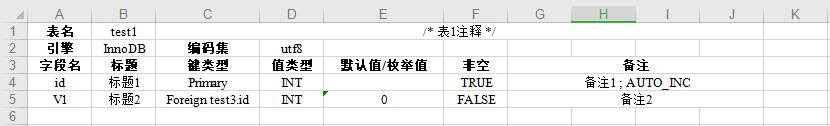
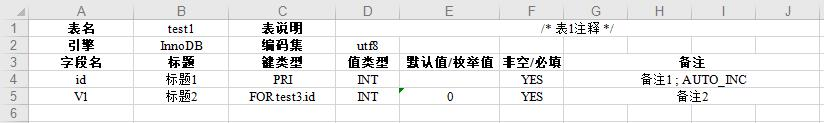
结构化数据、支持从数据库直接导出表结构

diff --git a/src/dbvd.py b/src/dbvd.py
@@ -1,19 +1,21 @@
 import xlwt
 import re
-import os
+from structure import TABLE, COLUMN, DRIVER
 
-class TABLE:
-    def __init__(self, sentence):
-        self.comment, self.table_name, self.columns, self.engine, self.charset = self.parse(sentence)
 
+class ReTableDriver(DRIVER):
     def parse(self, s):
-        comment, table_name, columns, engine, charset = "None", "None", [], "Default", "Default"
+        comment, table_name, columns, engine, charset = "", "None", [], "Default", "Default"
         primary_keys, foreign_keys = [], []
+
+        # 提取表信息
         res = re.search(r'(/\*.*\*/)?\s*CREATE TABLE(?: IF NOT EXISTS)?\s*(\w+)\s*\(.*\)', s, re.I|re.S)
         if res:
             comment, table_name = res.groups()
         engine, charset = self.pick_value(s, ['ENGINE', 'DEFAULT CHARSET'])
         res = re.search(r'(?:/\*.*\*/)?\s*CREATE TABLE(?: IF NOT EXISTS)?\s*\w+\s*\((.*)\)', s, re.I|re.S)
+
+        # 构建列信息
         if res:
             sentences = res.group(1).split('\n')  # Do not use re.split() here!
             for i in sentences: # every sentence only contains no more than 1 blank as devider
@@ -28,21 +30,22 @@ class TABLE:
                     foreign_keys.append(res_for.groups())
                     pass
                 else:
-                    columns.append(COLUMN(i))
+                    columns.append(COLUMN(i, ReCulomnDriver()))
 
         # 构建键约束
         for i in primary_keys:
             for c in columns:
                 if(c.column_name == i[0]):
-                    c.key_constraint = 'Primary'
+                    c.key_constraint = 'PRI'
         for i in foreign_keys:
             for c in columns:
                 if(c.column_name == i[0]):
-                    c.key_constraint = 'Foreign %s.%s' % (i[1], i[2])
+                    c.key_constraint = 'FOR %s.%s' % (i[1], i[2])
 
         return comment, table_name, columns, engine, charset
-    
+        
     def pick_value(self, s, keys):
+        # 按键值对获取信息，如 a=c，将返回c
         values = []
         for k in keys:
             value, res = "Default", re.search(r''+k+' *= *(\w+)', s, re.I)
@@ -52,83 +55,33 @@ class TABLE:
         return tuple(values)
 
 
-    def output(self, xls):
-        bold_title = xlwt.easyxf('font: name Times New Roman, bold on; align:horiz center, vert center')
-        normal_style = xlwt.easyxf('font: name Times New Roman; align:horiz center, vert center')
-        sheet = xls.add_sheet(self.table_name, cell_overwrite_ok=True)
-        sheet.write(0, 0, "表名", bold_title)
-        sheet.write(0, 1, self.table_name, normal_style)
-        sheet.write(0, 2, "表说明", bold_title)
-        sheet.write_merge(0, 0, 2, 9, self.comment, normal_style)
-
-        sheet.write(1, 0, "引擎", bold_title)
-        sheet.write(1, 1, self.engine, normal_style)
-        sheet.write(1, 2, "编码集", bold_title)
-        sheet.write(1, 3, self.charset, normal_style)
-
-        sheet.write(2, 0, "字段名", bold_title)
-        sheet.write(2, 1, "标题", bold_title)
-        sheet.write(2, 2, "键类型", bold_title)
-        sheet.write(2, 3, "值类型", bold_title)
-        sheet.write(2, 4, "默认值/枚举值", bold_title)
-        sheet.write(2, 5, "非空", bold_title)
-        sheet.write_merge(2, 2, 6, 9, "备注", bold_title)
-
-        row = 3
-        for c in self.columns:
-            sheet.write(row, 0, c.column_name, normal_style)
-            sheet.write(row, 1, c.title, normal_style)
-            sheet.write(row, 2, c.key_constraint, normal_style)
-            sheet.write(row, 3, c.key_type, normal_style)
-            sheet.write(row, 4, c.default_value, normal_style)
-            sheet.write(row, 5, c.not_null, normal_style)
-            sheet.write_merge(row, row, 6, 9, c.desc, normal_style)
-            row += 1
-
-    def __str__(self):
-        return "comment=%s, table_name=%s, columns_len=%d, engine=%s, charset=%s" \
-            % (self.comment, self.table_name, len(self.columns), self.engine, self.charset)
-
-class COLUMN:
-    def __init__(self, sentence):
-        self.title, self.column_name, self.key_constraint, \
-         self.key_type, self.default_value, self.not_null, self.desc = self.parse(sentence)
-    
+class ReCulomnDriver(DRIVER):
     def parse(self, s):
-        title, column_name, key_constraint, key_type, default_value, not_null, desc = "/", "/", "", "/", "", True, "/"
+        title, column_name, key_constraint, key_type, default_value, not_null, desc = "/", "/", "", "/", "", "YES", "/"
 
+        # 提取列基本信息
         res = re.search(r'/\*(.*)\*/\s*(\w+) ([\w\(\)]+).*/\*(.*)\*/', s, re.I)
         if res:
             title, column_name, key_type, desc = res.groups()
 
-        # 查询默认值或枚举值
-        # res = re.search(r'DEFAULT (\d|(?:\'.*?\'))', s, re.I)
-        # if res:
-        #     print(res.groups())
-
-        # res = re.search(r'ENUM ?\( ?(.*?) ?\)', s, re.I)
-        # if res:
-        #     print(res.groups())
-
-        # 查询默认值或枚举值
+        # 查询默认值或枚举值 r'DEFAULT (\d|(?:\'.*?\'))' || r'ENUM ?\( ?(.*?) ?\)'
         res = re.search(r'DEFAULT (\d|(?:\'.*?\'))|ENUM ?\( ?(.*?) ?\)', s, re.I)
         if res:
             default_value = res.group(1) if res.group(1) is not None else res.group(2)
             desc += "; ENUM" if res.group(2) is not None else "" # 是否为枚举值，如是则标注到备注里
 
         # 是否可空
-        not_null = re.search(r'NOT NULL', s, re.I) is not None
+        not_null = "YES" if re.search(r'NOT NULL', s, re.I) is not None or default_value != "" else "NO"
+
+        # 查询是否为UNIQUE键值
+        key_constraint = "UNI" if re.search(r'UNIQUE', s, re.I) is not None else ""
 
         # 是否自增，在备注中标出
         desc += "; AUTO_INC" if re.search(r'AUTO_INCREMENT', s, re.I) is not None else ""
 
         return title, column_name, key_constraint, key_type, default_value, not_null, desc
-    
-    def __str__(self):
-        return "title=%s, column_name=%s, key_constraint=%s, key_type=%s, default_value=%s, not_null=%s, desc=%s" \
-            % (self.title, self.column_name, self.key_constraint, self.key_type, self.default_value, self.not_null, self.desc)
 
-
+        
 if __name__ == "__main__":
     import argparse
     parser = argparse.ArgumentParser()
@@ -144,7 +97,7 @@ if __name__ == "__main__":
         sentences = re.sub(r'[ \t\r\f]+',' ', file.read()).split(";") # remove multiple blanks
         for i in sentences:
             if len(i)>0:
-                tables.append(TABLE(i))
+                tables.append(TABLE(i, ReTableDriver()))
 
         xls = xlwt.Workbook()
         for t in tables:

diff --git a/src/dbvc.py b/src/dbvc.py
@@ -1,0 +1,85 @@
+import xlwt
+import pymysql
+import re
+import traceback
+from structure import TABLE, COLUMN, DRIVER
+
+
+class CoTableDriver(DRIVER):
+    def parse(self, s):
+        comment, table_name, columns, engine, charset = "", "None", [], "Default", "Default"
+        table_name, columns = s
+        return comment, table_name, columns, engine, charset
+
+
+class CoColumnDriver(DRIVER):
+    def parse(self, s):
+        title, column_name, key_constraint, key_type, default_value, not_null, desc = "/", "/", "", "/", "", "YES", "/"
+        column_name, key_type, not_null, key_constraint, default_value, desc = s
+
+        default_value = "" if default_value is None else default_value
+
+        # 将ENUM的信息提取出来
+        res = re.search(r'ENUM *\( *(.*?) *\)', key_type, re.I)
+        if res:
+            default_value += res.group(1)
+            key_type = "ENUM"
+            desc += "; ENUM"
+        
+        # 转义空值定义 
+        not_null = "YES" if not_null == "NO" else "NO"
+
+        return title, column_name, key_constraint, key_type, default_value, not_null, desc
+
+        
+if __name__ == "__main__":
+    import argparse
+    parser = argparse.ArgumentParser()
+    parser.add_argument('--host', default="localhost", type=str)
+    parser.add_argument('--port', default=3306, type=int)
+    parser.add_argument('--u', default="root", type=str)
+    parser.add_argument('--p', default="password", type=str)
+    parser.add_argument('--db', default="database", type=str)
+    parser.add_argument('--output', default="./output.xls", type=str)
+    parser.add_argument('--debug', default=False, type=bool)
+    args = parser.parse_args()
+    print(args)
+
+    try:
+        tables = []
+        connection = pymysql.connect(host=args.host, port=args.port, user=args.u, password=args.p, db=args.db)
+        with connection.cursor() as cursor:
+            cursor.execute('SHOW TABLES')
+            table_names = cursor.fetchall()
+
+            for table_name in table_names:
+                columns = []
+                cursor.execute('DESC '+table_name[0])
+                table_desc = cursor.fetchone()
+
+                while table_desc:
+                    columns.append(COLUMN(table_desc, CoColumnDriver()))
+                    table_desc = cursor.fetchone()
+
+                tables.append(TABLE((table_name[0], columns), CoTableDriver()))
+
+        xls = xlwt.Workbook()
+        for t in tables:
+            # 控制台输出测试信息
+            if args.debug:
+                print(t)
+                for c in t.columns:
+                    print(c)
+                print()
+            t.output(xls)
+        xls.save(args.output)
+
+        print('Success!')
+        print('Warning: Key Constraint Infornation(Specific:Foreign Key) lost.')
+    except:
+        print('Failed! Mysql Server not connected!')
+        traceback.print_exc()
+    finally:
+        connection.close()
+
+    

diff --git a/src/structure.py b/src/structure.py
@@ -1,0 +1,63 @@
+import xlwt
+
+
+class DRIVER:
+    # An Interface
+    def parse(self, s):
+        return None # Return an tuple
+
+
+class TABLE:
+    def __init__(self, sentence, driver):
+        self.comment, self.table_name, self.columns, self.engine, self.charset = driver.parse(sentence)
+
+    def output(self, xls):
+        bold_title = xlwt.easyxf('font: name Times New Roman, bold on; align:horiz center, vert center')
+        normal_style = xlwt.easyxf('font: name Times New Roman; align:horiz center, vert center')
+        sheet = xls.add_sheet(self.table_name, cell_overwrite_ok=True)
+        sheet.write(0, 0, "表名", bold_title)
+        sheet.write(0, 1, self.table_name, normal_style)
+        sheet.write(0, 2, "表说明", bold_title)
+        sheet.write_merge(0, 0, 3, 9, self.comment, normal_style)
+
+        sheet.write(1, 0, "引擎", bold_title)
+        sheet.write(1, 1, self.engine, normal_style)
+        sheet.write(1, 2, "编码集", bold_title)
+        sheet.write(1, 3, self.charset, normal_style)
+
+        sheet.write(2, 0, "字段名", bold_title)
+        sheet.write(2, 1, "标题", bold_title)
+        sheet.write(2, 2, "键类型", bold_title)
+        sheet.write(2, 3, "值类型", bold_title)
+        sheet.write(2, 4, "默认值/枚举值", bold_title)
+        sheet.write(2, 5, "非空/必填", bold_title)
+        sheet.write_merge(2, 2, 6, 9, "备注", bold_title)
+
+        row = 3
+        for c in self.columns:
+            sheet.write(row, 0, c.column_name, normal_style)
+            sheet.write(row, 1, c.title, normal_style)
+            sheet.write(row, 2, c.key_constraint, normal_style)
+            sheet.write(row, 3, c.key_type, normal_style)
+            sheet.write(row, 4, c.default_value, normal_style)
+            sheet.write(row, 5, c.not_null, normal_style)
+            sheet.write_merge(row, row, 6, 9, c.desc, normal_style)
+            row += 1
+
+    def __str__(self):
+        return "comment=%s, table_name=%s, columns_len=%d, engine=%s, charset=%s" \
+            % (self.comment, self.table_name, len(self.columns), self.engine, self.charset)
+
+
+class COLUMN:
+    def __init__(self, sentence, driver):
+        self.title, self.column_name, self.key_constraint, \
+         self.key_type, self.default_value, self.not_null, self.desc = driver.parse(sentence)
+    
+    def __str__(self):
+        return "title=%s, column_name=%s, key_constraint=%s, key_type=%s, default_value=%s, not_null=%s, desc=%s" \
+            % (self.title, self.column_name, self.key_constraint, self.key_type, self.default_value, self.not_null, self.desc)
+
+
+if __name__ == "__main__":
+    print("Non-executable file!")

diff --git a/README.md b/README.md
@@ -1,11 +1,21 @@
 # DBVTranslator
-这个小工具将帮助你将一个`sql`文件转化为`xls`文件，以帮助进行数据字典的构建。
+
+![License](https://img.shields.io/github/license/mashape/apistatus.svg?maxAge=2592000)
+
+这个轻量化的小工具将帮助你将一个`sql`文件转化为`xls`文件，以帮助进行数据字典的构建。同时，也可以直接从数据库里导出表结构到`xls`文件。(当前仅支持Mysql数据库)
 
 ## 环境依赖
-- python 3.6
+
+<img src="https://img.shields.io/badge/python-3.5+-blue.svg?logo=python&style=flat-square"/>
+
+需要执行 `pip install -r requirement.txt` 以安装以下轮子：
+
 - xlwt
+- pymysql
 
 ## 快速上手
+
+### ① 转化sql文件到xls文件
 `python src/dbvd.py --path "./test/test.sql"`
 
 将可以把`test/test.sql`中的相关文件转化为`output.xls`，如：
@@ -24,10 +34,35 @@ CREATE TABLE IF NOT EXISTS test1 (
 
 > 注意：目前仅支持如`test/test.sql`文件所示的sql语句标准排版格式。
 
-## 命令行参数
+**命令行参数**
+
 参数|说明|示例值
 :-:|:-:|:-:
 --path|sql文件路径|"./test/test.sql"
 --charset|sql文件字符集|"utf-8"
 --output|xls文件输出路径|"./output.xls"
 --debug|输出debug信息|True
+
+### ② 从数据库中导出
+
+`python src/dbvc.py --u root --p password --db database`
+
+导出结果如下：
+
+![](/.github/demo2.jpg)
+
+> 注意：通过此方式导出的数据库结构将会缺少外键信息和标题注释等信息；且目前仅支持MySQL数据库
+
+**命令行参数**
+
+参数|说明|示例值
+:-:|:-:|:-:
+host|数据库域名|localhost
+post|数据库端口|3306
+u|数据库访问用户名|root
+p|数据库访问密码|password
+db|要导出的数据库名|db
+output|xls文件输出路径|"./output.xls"
+--debug|输出debug信息|True
+
+
